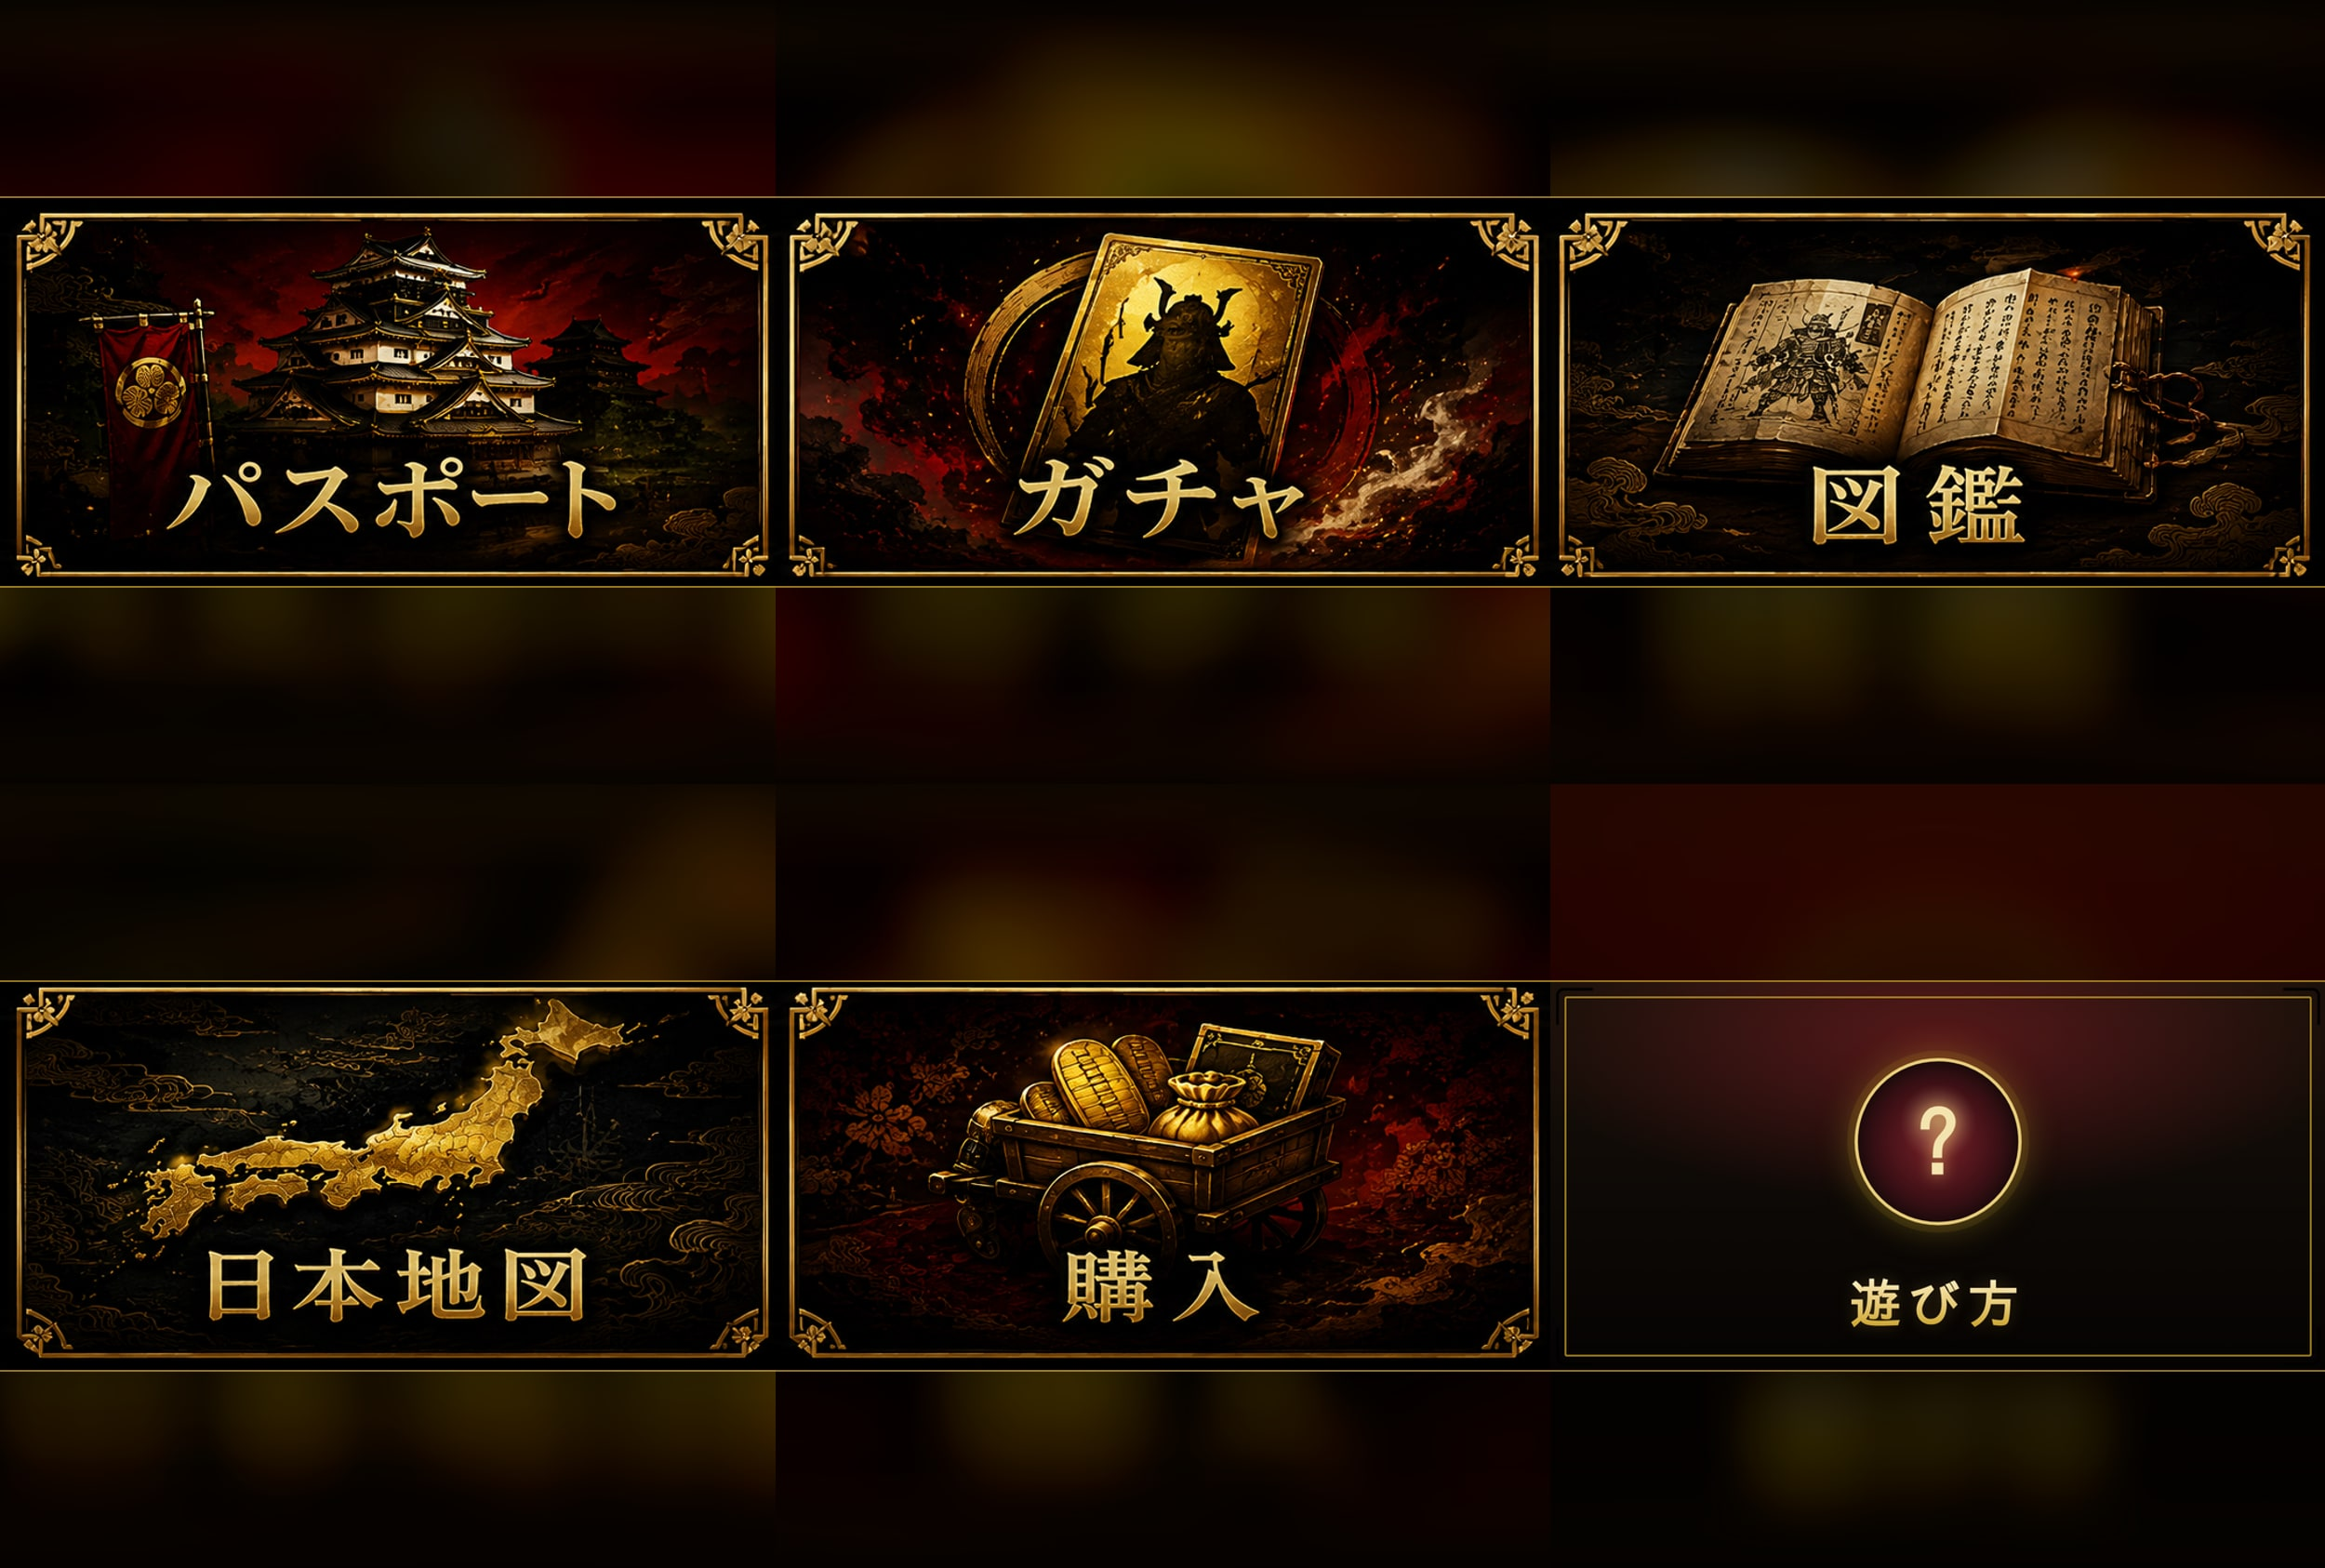
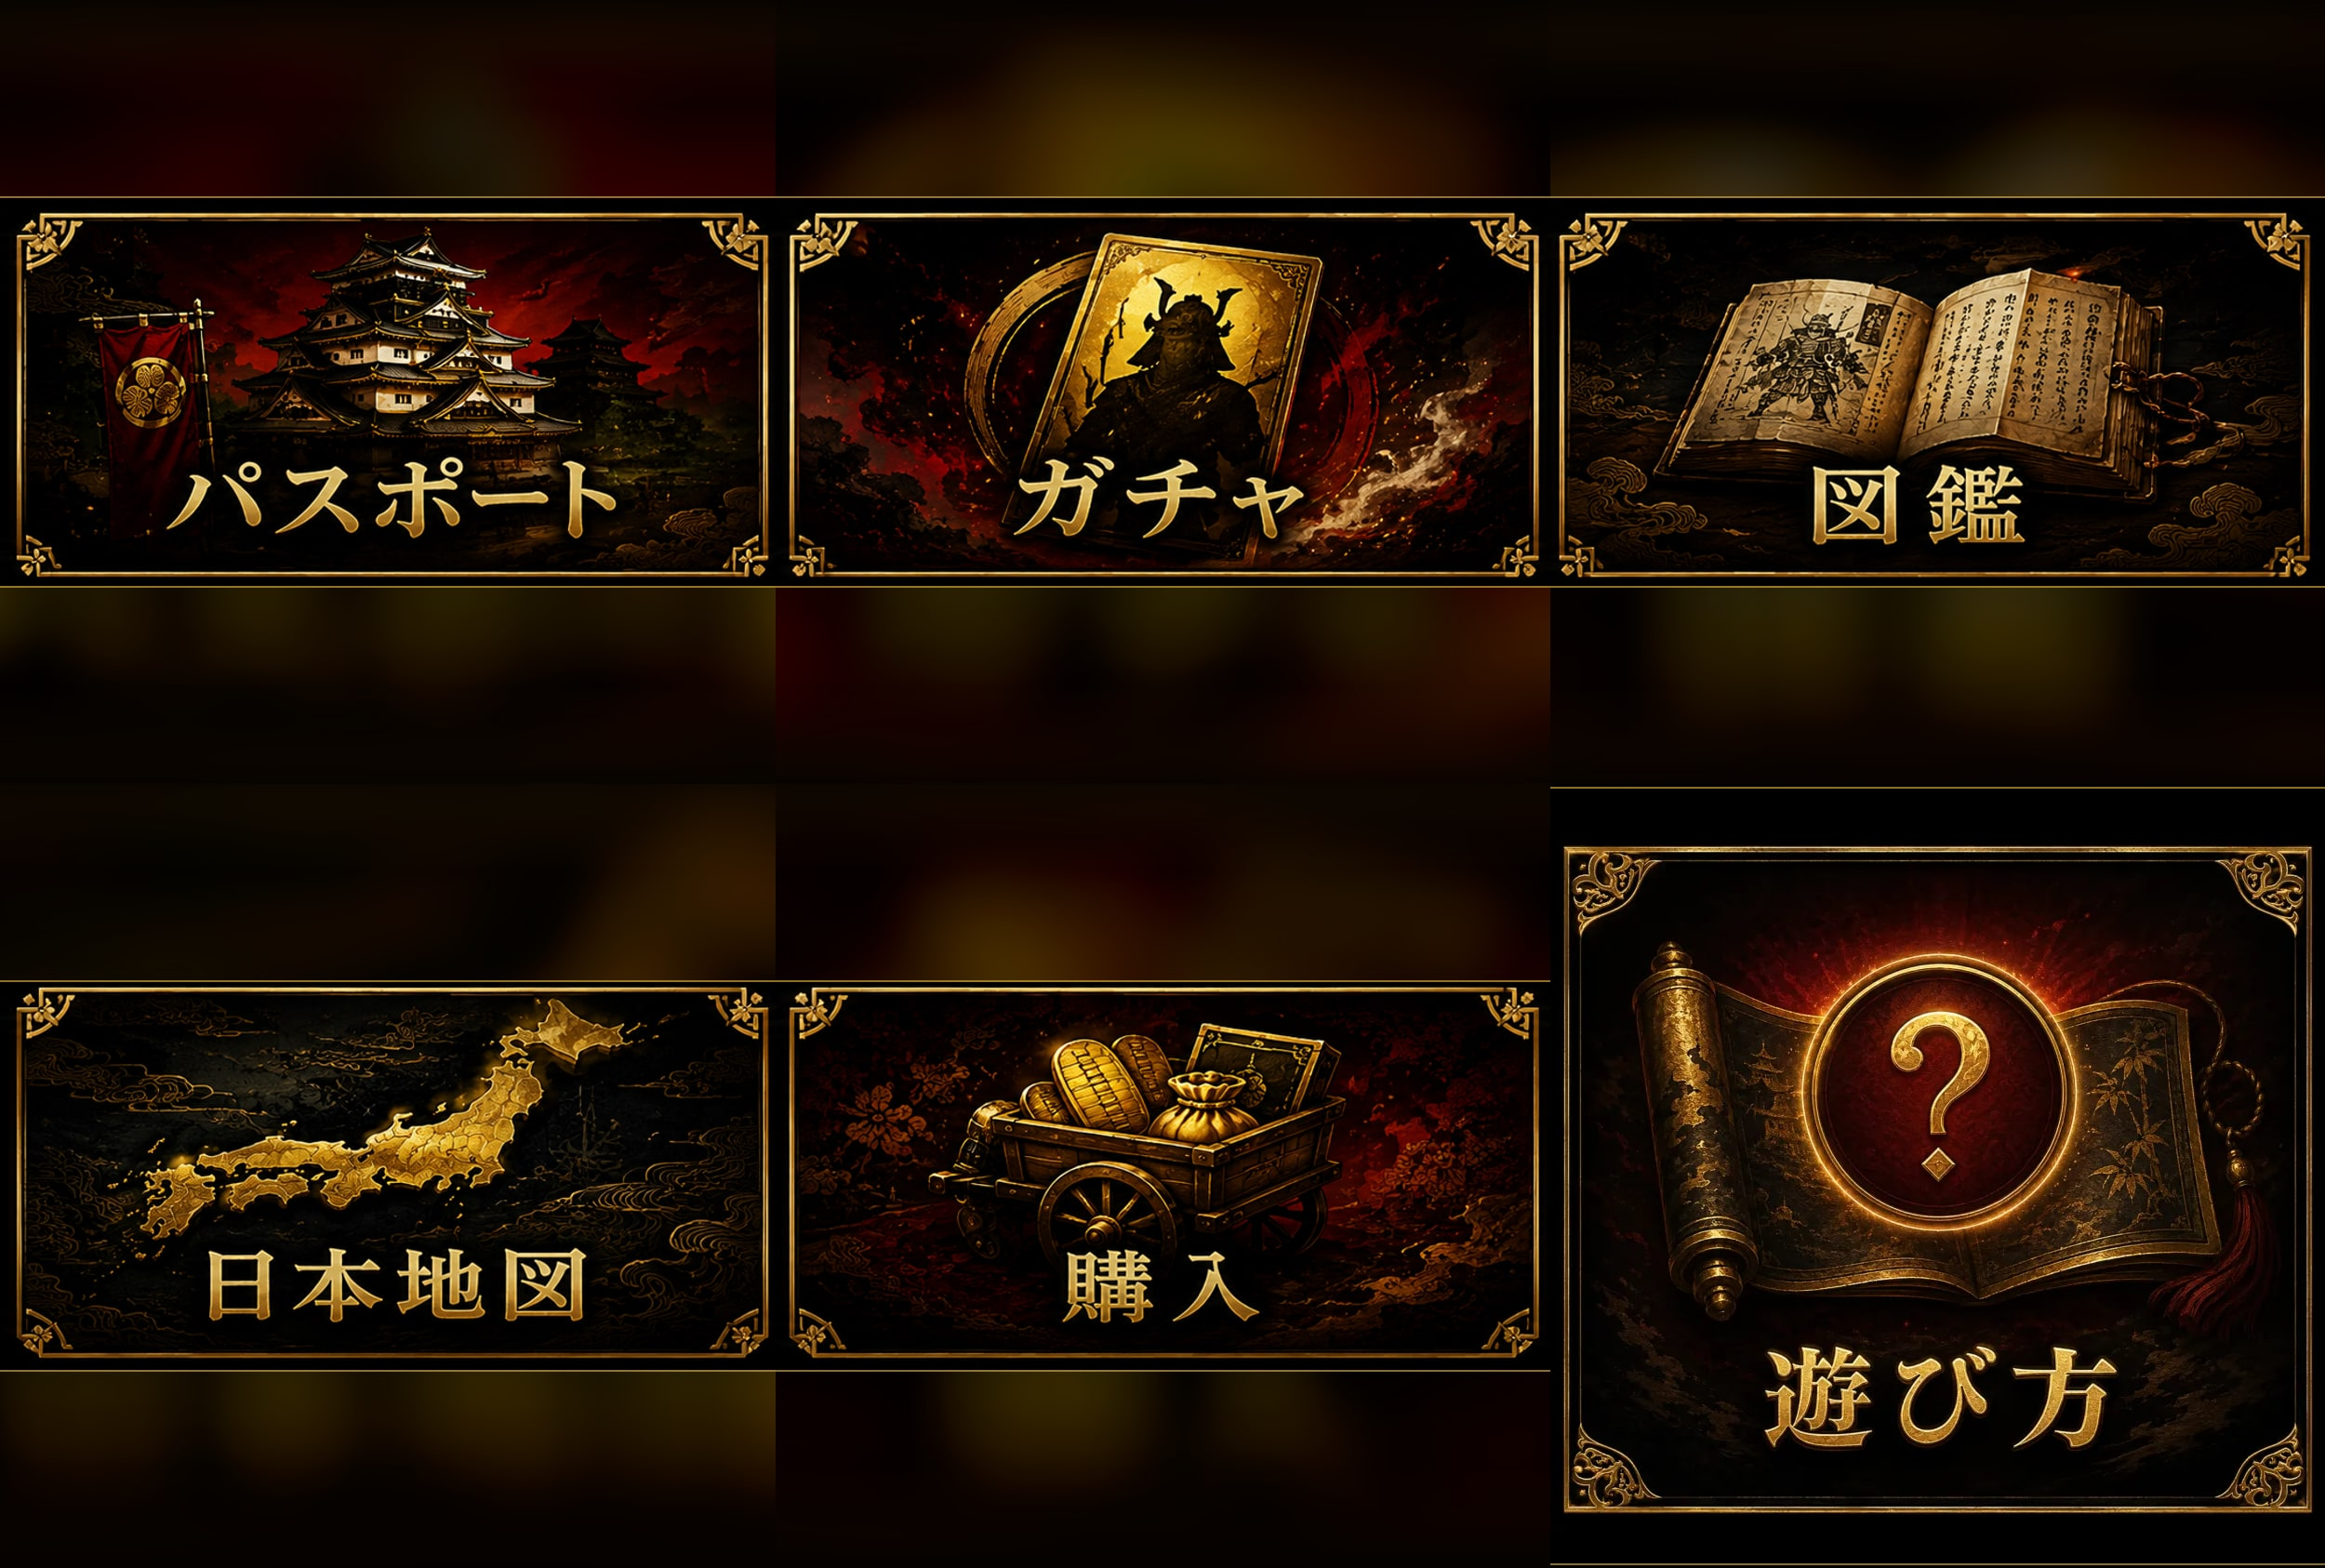
「遊び方」パネルを専用アートワークに差し替え (#16)
ユーザーからいただいた、他5枚と同じトーンの巻物イラスト(1254×1254の
正方形)に richmenu-guide.webp を差し替え、public/rich-menu.jpg を再合成。
以前の暫定版(額縁+メダリオンのみの自作パネル)を置き換える。

Claude-Session: https://claude.ai/code/session_01JmaSw35MkbhkTHwYxvnFMb

Changed region(s): [[0.6552, 0.4935, 1.0, 0.987]]

diff --git a/assets/rich-menu-source/README.md b/assets/rich-menu-source/README.md
@@ -18,9 +18,10 @@
 
 ## 元画像とサイズの都合について
 
-単体画像は横長(約2:1)だが、LINEの2行×3列レイアウトの1マスは約833×843px(ほぼ正方形)。
-そのままだと大きく引き伸ばすか、左右を半分近く切り落とさないと収まらず、
-歪み・文字切れ・家紋や旗など主役の欠落が発生する。
+パスポート/ガチャ/図鑑/日本地図/購入の5枚は横長(約2:1)、遊び方は正方形(約1:1、
+1254×1254)と素材ごとにサイズが異なる。一方LINEの2行×3列レイアウトの1マスは
+約833×843px(ほぼ正方形)。横長素材をそのまま引き伸ばすと歪みや文字切れ・
+主役の欠落が発生する。
 
 そのため `public/rich-menu.jpg` では、各マスを「単体画像をぼかして引き伸ばした背景 +
 単体画像そのもの(無加工・無トリミング)を中央に配置」という構成にして、